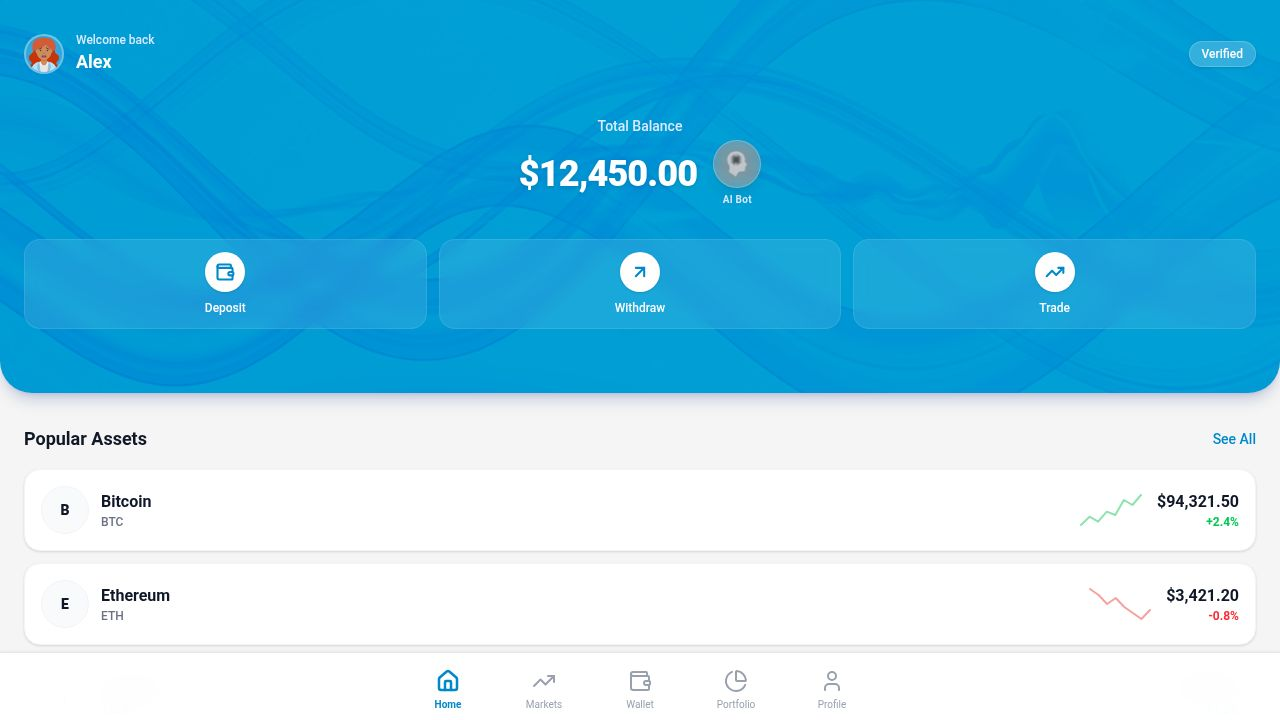
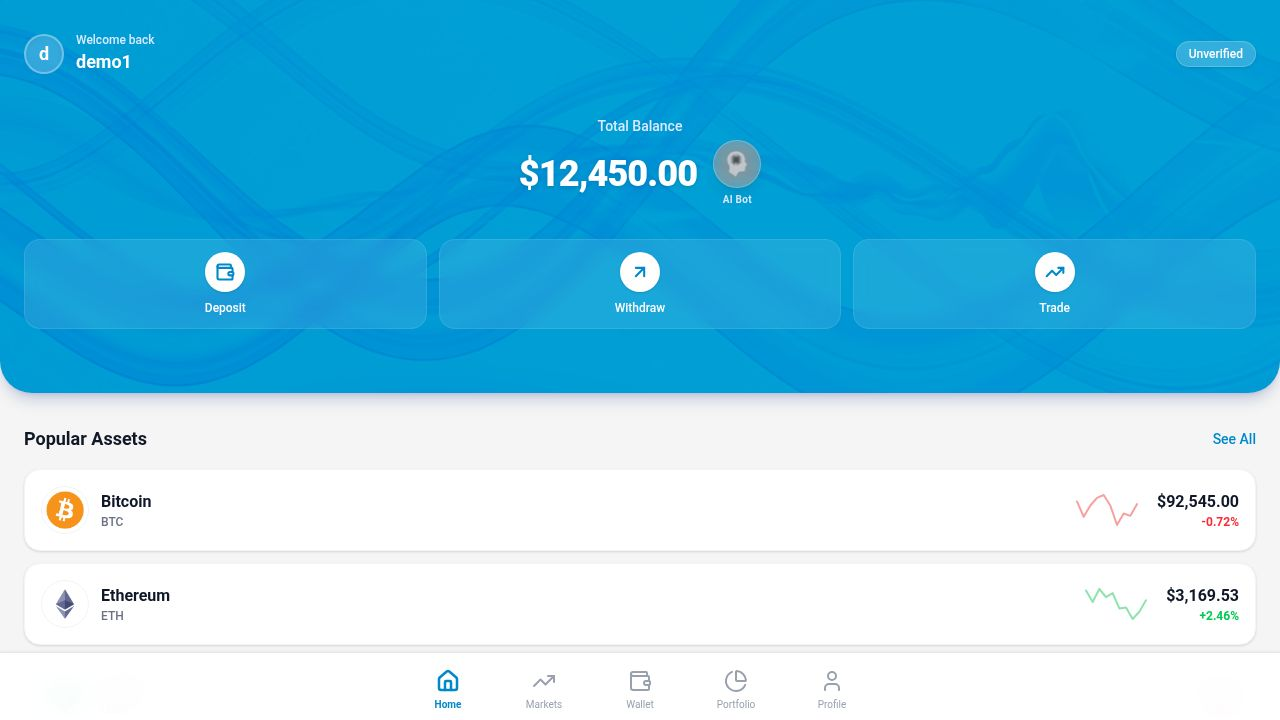
Add API configuration and display popular crypto assets dynamically
Implement an admin page for configuring the CoinGecko API URL and update the home page to fetch and display popular cryptocurrency assets using the configured API.

Replit-Commit-Author: Agent
Replit-Commit-Session-Id: dbfbdd6f-10ee-46e0-8b4d-dbf628912016
Replit-Commit-Checkpoint-Type: full_checkpoint
Replit-Commit-Event-Id: 92f62380-78a9-45e6-976b-687cc9283977
Replit-Commit-Screenshot-Url: https://storage.googleapis.com/screenshot-production-us-central1/85cd3f36-fcfa-43d9-a41f-451ea9054cb6/dbfbdd6f-10ee-46e0-8b4d-dbf628912016/sU54wr2

diff --git a/client/src/pages/home.tsx b/client/src/pages/home.tsx
@@ -102,12 +102,57 @@ export default function Home() {
     }
   }, []);
 
-  // Filter featured assets based on market status
-  const featuredAssets = [
-    { name: "Bitcoin", symbol: "BTC", price: "94,321.50", change: "+2.4%", isUp: true, history: [40, 45, 42, 48, 46, 55, 52, 58], type: 'crypto' },
-    { name: "Ethereum", symbol: "ETH", price: "3,421.20", change: "-0.8%", isUp: false, history: [60, 58, 55, 57, 54, 52, 50, 53], type: 'crypto' },
-    { name: "Tesla Inc", symbol: "TSLA", price: "245.30", change: "+1.2%", isUp: true, history: [30, 32, 35, 34, 38, 36, 40, 42], type: 'stocks' },
-  ].filter(asset => marketStatus[asset.type as keyof typeof marketStatus]);
+  // Fetch popular assets from API
+  const [featuredAssets, setFeaturedAssets] = useState<any[]>([]);
+  const [isLoadingAssets, setIsLoadingAssets] = useState(true);
+
+  useEffect(() => {
+    const fetchAssets = async () => {
+      if (!marketStatus.crypto) {
+        setFeaturedAssets([]);
+        setIsLoadingAssets(false);
+        return;
+      }
+
+      try {
+        setIsLoadingAssets(true);
+        const apiUrl = localStorage.getItem("crypto_api_url") || "https://api.coingecko.com/api/v3/coins/markets?vs_currency=usd&order=price_desc&per_page=5&page=1&x_cg_demo_api_key=CG-7Rc5Jh3xjgp1MT5J9vG5BsSk";
+        
+        const response = await fetch(apiUrl);
+        if (!response.ok) throw new Error('Failed to fetch');
+        
+        const data = await response.json();
+        
+        // Transform data for display (take top 5)
+        const transformed = data.slice(0, 5).map((coin: any) => ({
+          id: coin.id,
+          name: coin.name,
+          symbol: coin.symbol.toUpperCase(),
+          price: coin.current_price.toLocaleString('en-US', { minimumFractionDigits: 2, maximumFractionDigits: 2 }),
+          change: `${coin.price_change_percentage_24h > 0 ? '+' : ''}${coin.price_change_percentage_24h.toFixed(2)}%`,
+          isUp: coin.price_change_percentage_24h > 0,
+          image: coin.image,
+          marketCap: coin.market_cap,
+          // Generate mock history for sparkline based on price change
+          history: Array.from({ length: 10 }, () => coin.current_price * (1 + (Math.random() * 0.1 - 0.05))),
+          type: 'crypto'
+        }));
+
+        setFeaturedAssets(transformed);
+      } catch (error) {
+        console.error("Error fetching crypto assets:", error);
+        // Fallback to mock data if API fails
+        setFeaturedAssets([
+          { name: "Bitcoin", symbol: "BTC", price: "94,321.50", change: "+2.4%", isUp: true, history: [40, 45, 42, 48, 46, 55, 52, 58], type: 'crypto', image: "https://assets.coingecko.com/coins/images/1/large/bitcoin.png" },
+          { name: "Ethereum", symbol: "ETH", price: "3,421.20", change: "-0.8%", isUp: false, history: [60, 58, 55, 57, 54, 52, 50, 53], type: 'crypto', image: "https://assets.coingecko.com/coins/images/279/large/ethereum.png" },
+        ]);
+      } finally {
+        setIsLoadingAssets(false);
+      }
+    };
+
+    fetchAssets();
+  }, [marketStatus]);
 
   return (
     <MobileLayout>
@@ -194,12 +239,22 @@ export default function Home() {
         </div>
 
         <div className="flex flex-col gap-3">
-          {featuredAssets.length > 0 ? (
+          {isLoadingAssets ? (
+            <div className="space-y-3">
+              {[1, 2, 3].map((i) => (
+                <div key={i} className="h-20 bg-white rounded-2xl border border-gray-100 animate-pulse" />
+              ))}
+            </div>
+          ) : featuredAssets.length > 0 ? (
             featuredAssets.map((asset) => (
               <div key={asset.symbol} className="flex items-center justify-between p-4 bg-white rounded-2xl border border-gray-100 shadow-sm hover:shadow-md transition-all cursor-pointer active:scale-[0.98]">
                 <div className="flex items-center gap-3">
-                  <div className="w-12 h-12 rounded-full bg-gray-50 flex items-center justify-center text-gray-900 font-black text-sm border border-gray-100">
-                    {asset.symbol[0]}
+                  <div className="w-12 h-12 rounded-full bg-white flex items-center justify-center overflow-hidden border border-gray-100 p-1">
+                    {asset.image ? (
+                      <img src={asset.image} alt={asset.name} className="w-full h-full object-cover" />
+                    ) : (
+                      <div className="text-gray-900 font-black text-sm">{asset.symbol[0]}</div>
+                    )}
                   </div>
                   <div>
                     <h4 className="font-bold text-gray-900">{asset.name}</h4>
@@ -208,7 +263,7 @@ export default function Home() {
                 </div>
                 
                 <div className="flex items-center gap-4">
-                  <div className="hidden sm:block opacity-50">
+                  <div className="hidden sm:block opacity-50 w-16">
                      <Sparkline data={asset.history} color={asset.isUp ? '#22c55e' : '#ef4444'} />
                   </div>
                   <div className="text-right">

diff --git a/client/src/pages/admin/api-usage.tsx b/client/src/pages/admin/api-usage.tsx
@@ -1,13 +1,95 @@
 import { AdminLayout } from "@/components/layout/admin-layout";
+import { Card, CardContent, CardHeader, CardTitle, CardDescription } from "@/components/ui/card";
+import { Input } from "@/components/ui/input";
+import { Button } from "@/components/ui/button";
+import { Label } from "@/components/ui/label";
+import { useState, useEffect } from "react";
+import { useToast } from "@/hooks/use-toast";
+import { Save, RefreshCw, Coins } from "lucide-react";
 
 export default function ApiConfiguration() {
+  const { toast } = useToast();
+  const [cryptoApiUrl, setCryptoApiUrl] = useState("");
+  const [isSaving, setIsSaving] = useState(false);
+
+  useEffect(() => {
+    const savedUrl = localStorage.getItem("crypto_api_url");
+    if (savedUrl) {
+      setCryptoApiUrl(savedUrl);
+    } else {
+      // Default URL provided by user
+      setCryptoApiUrl("https://api.coingecko.com/api/v3/coins/markets?vs_currency=usd&order=price_desc&per_page=250&page=1&x_cg_demo_api_key=CG-7Rc5Jh3xjgp1MT5J9vG5BsSk");
+    }
+  }, []);
+
+  const handleSave = () => {
+    setIsSaving(true);
+    // Simulate API validation/saving
+    setTimeout(() => {
+      localStorage.setItem("crypto_api_url", cryptoApiUrl);
+      setIsSaving(false);
+      toast({
+        title: "API Configuration Saved",
+        description: "The cryptocurrency market data source has been updated.",
+      });
+    }, 800);
+  };
+
   return (
     <AdminLayout>
       <div className="mb-8">
         <h1 className="text-3xl font-bold text-gray-900">API Configuration</h1>
         <p className="text-gray-500 mt-2">Manage external integrations and API keys for the platform.</p>
       </div>
-      {/* Content cleared as requested */}
+
+      <div className="space-y-6">
+        <Card className="border-none shadow-sm">
+          <CardHeader>
+            <div className="flex items-center gap-3">
+              <div className="p-2 bg-orange-100 rounded-lg text-orange-600">
+                <Coins size={24} />
+              </div>
+              <div>
+                <CardTitle>Cryptocurrency Market Data</CardTitle>
+                <CardDescription>Configure the data source for populating crypto assets.</CardDescription>
+              </div>
+            </div>
+          </CardHeader>
+          <CardContent className="space-y-4">
+            <div className="space-y-2">
+              <Label htmlFor="crypto-api">API Endpoint URL</Label>
+              <Input 
+                id="crypto-api" 
+                placeholder="https://api.example.com/v3/coins/markets..." 
+                value={cryptoApiUrl}
+                onChange={(e) => setCryptoApiUrl(e.target.value)}
+                className="font-mono text-sm"
+              />
+              <p className="text-xs text-gray-500">
+                This endpoint will be used to fetch real-time data for the "Popular Assets" section on the user dashboard.
+              </p>
+            </div>
+
+            <Button 
+              onClick={handleSave} 
+              disabled={isSaving}
+              className="bg-blue-600 hover:bg-blue-700"
+            >
+              {isSaving ? (
+                <>
+                  <RefreshCw size={16} className="mr-2 animate-spin" />
+                  Saving...
+                </>
+              ) : (
+                <>
+                  <Save size={16} className="mr-2" />
+                  Save Configuration
+                </>
+              )}
+            </Button>
+          </CardContent>
+        </Card>
+      </div>
     </AdminLayout>
   );
 }
